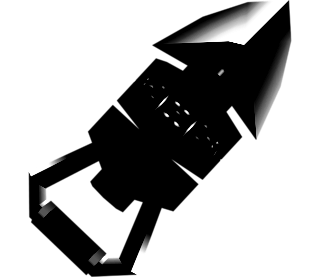
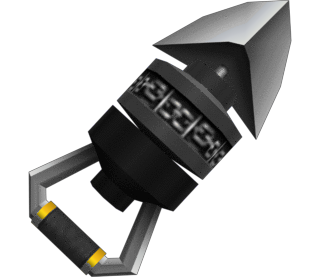
pain

diff --git a/oot.py b/oot.py
@@ -1,4 +1,3 @@
-#import
 import pygame
 
 
@@ -21,9 +20,15 @@ master_quest_keys = [0, 0, 0, 6, 5, 6, 9, "???", 3, 9, 0]
 
 #image loading
   #background (not yet)
-
+OoT_bg = pygame.image.load("assets/images/OoT/bg/OoT_bg.png").convert_alpha()
+item_bg = pygame.image.load("assets/images/OoT/bg/items.png").convert_alpha()
   #default item loading
+default_hookshot = pygame.image.load("assets/images/OoT/items/hookshot/hookshot_0.png").convert_alpha()
 
+  
+  #obtained item loading
+hookshot = pygame.image.load("assets/images/OoT/items/hookshot/hookshot.png").convert_alpha()
+longshot = pygame.image.load("assets/images/OoT/items/hookshot/longshot.png").convert_alpha()
 
   #dungeon reward loading - medallions
 default_light = pygame.image.load("assets/images/OoT/medallions/light_gray.png").convert_alpha()
@@ -43,3 +48,24 @@ clicked_spirit = pygame.image.load("assets/images/OoT/medallions/spirit.png").co
 
 default_shadow = pygame.image.load("assets/images/OoT/medallions/shadow_gray.png").convert_alpha()
 clicked_shadow = pygame.image.load("assets/images/OoT/medallions/shadow.png").convert_alpha()
+
+
+#classes for defining image, scale, and location
+class imageScaling():
+  def __init__(self, x, y, image, scale):
+    width = image.get_width()
+    height = image.get_height()
+    self.image = pygame.transform.scale(
+        image, (int(width * scale), int(height * scale)))
+    self.rect = self.image.get_rect()
+    self.rect.topleft = (x, y)
+
+  def draw(self):
+     screen.blit(self.image, (self.rect.x, self.rect.y))
+start = True
+run = True
+OoT_bg = imageScaling(0, 0, OoT_bg, 1)
+while run == True:
+  while start == True:
+    OoT_bg.draw()
+    start = False
